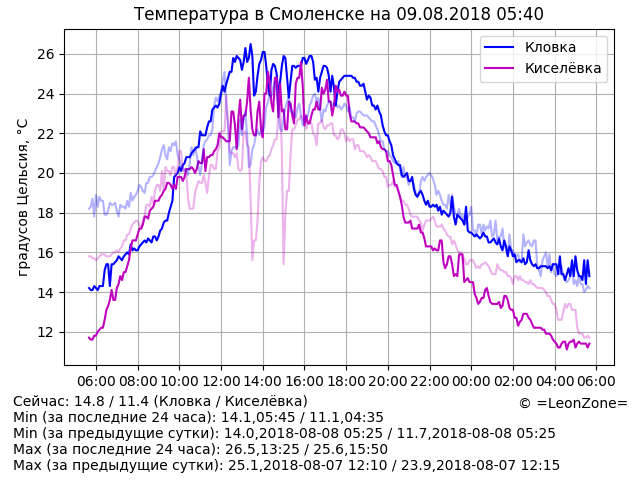
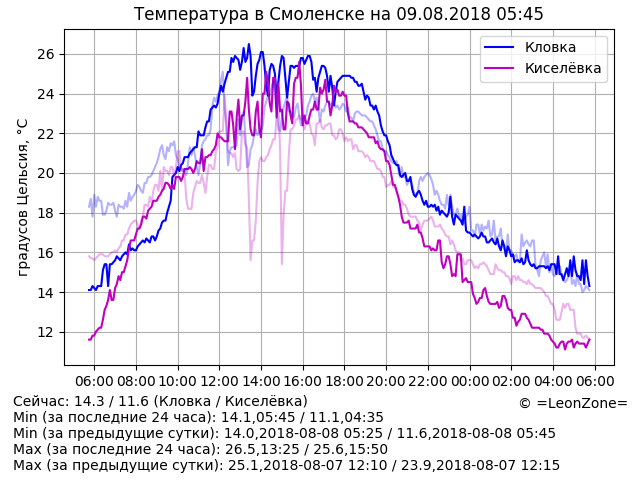
Update data

diff --git a/index.html b/index.html
@@ -14,9 +14,9 @@
 	<p align="center"><script>document.write("<img src=\"graph.png?rnd="+Math.random()+"\" alt=\"Температура в Смоленске\" align=\"middle\" width=\"640\" height=\"480\" />")</script>
 	<p hidden="true">
 <!-- textinfo -->
-Сейчас: 14.8 / 11.4 (Кловка / Киселёвка)
+Сейчас: 14.3 / 11.6 (Кловка / Киселёвка)
 Min (за последние 24 часа): 14.1,05:45 / 11.1,04:35
-Min (за предыдущие сутки): 14.0,2018-08-08 05:25 / 11.7,2018-08-08 05:25
+Min (за предыдущие сутки): 14.0,2018-08-08 05:25 / 11.6,2018-08-08 05:45
 Max (за последние 24 часа): 26.5,13:25 / 25.6,15:50
 Max (за предыдущие сутки): 25.1,2018-08-07 12:10 / 23.9,2018-08-07 12:15
 <!-- /textinfo -->
